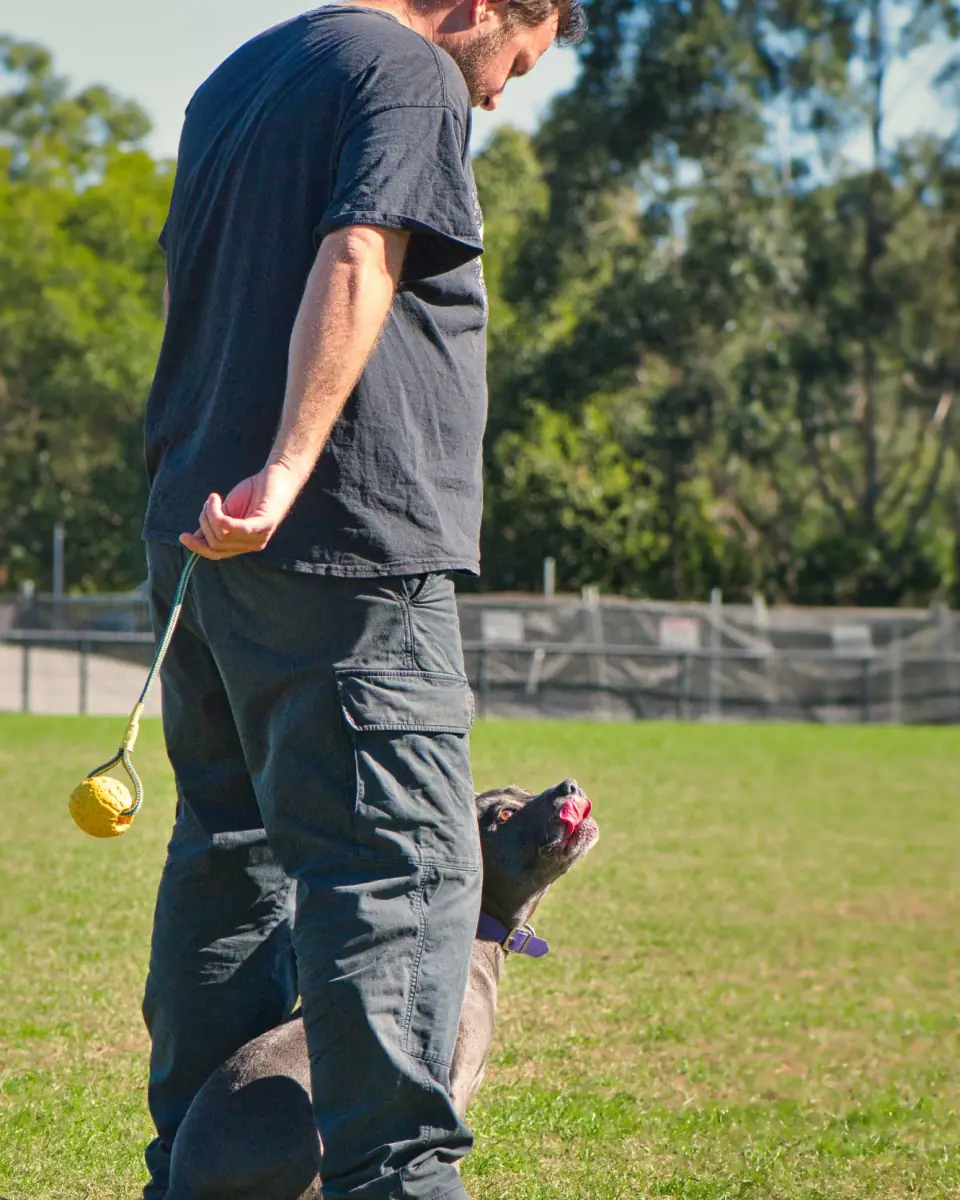
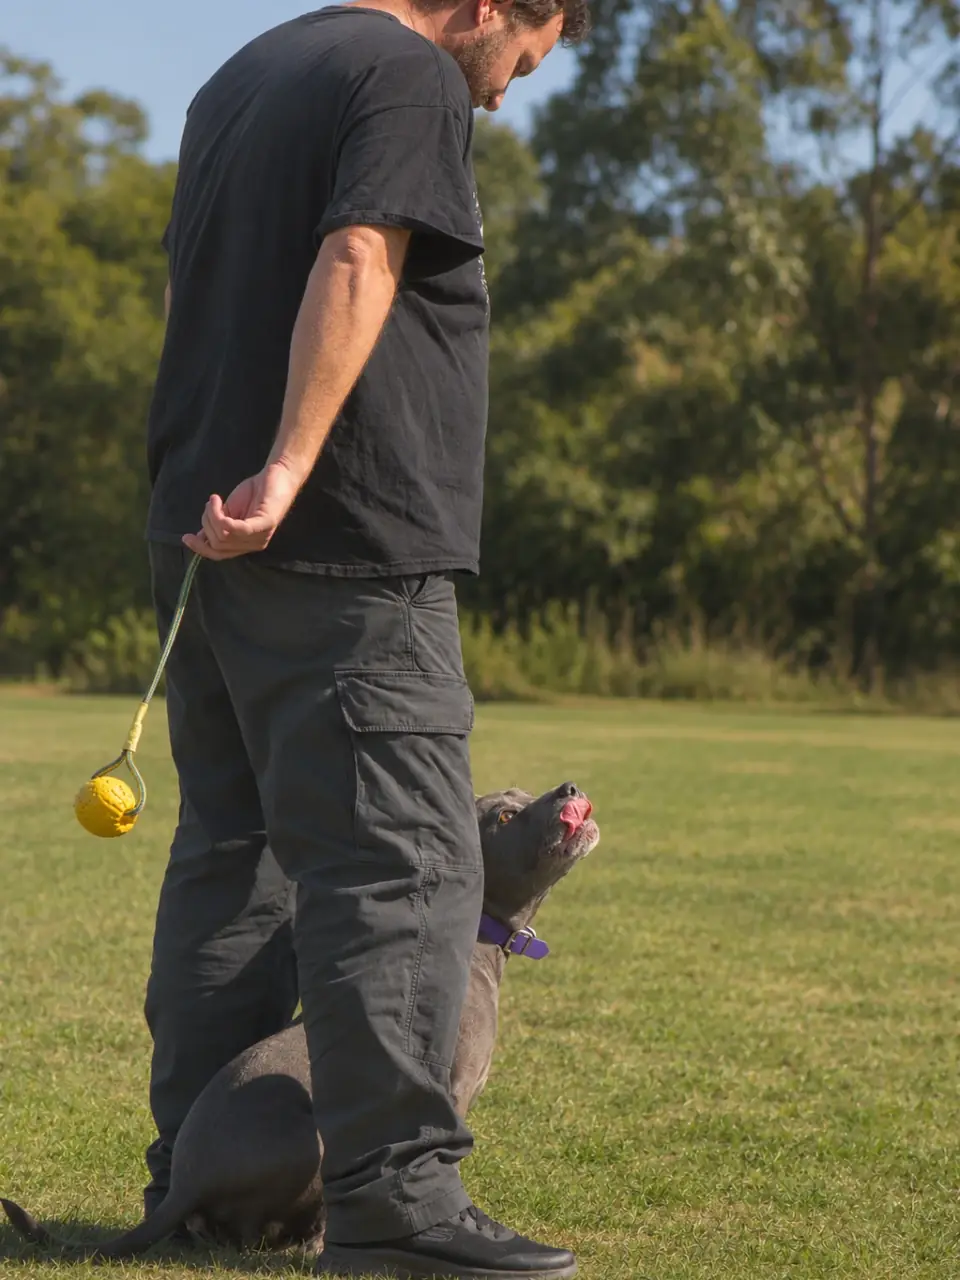
Draft: softer colour and cleaner backgrounds on Method photos

diff --git a/client/src/pages/method.tsx b/client/src/pages/method.tsx
@@ -74,7 +74,7 @@ export default function MethodPage() {
             alt="A grey staffy sitting at Tristan's side, looking up at him while he holds a ball on a rope"
             className="h-auto w-full rounded-[26px] object-cover"
             width={960}
-            height={1200}
+            height={1280}
             decoding="async"
           />
         </div>
